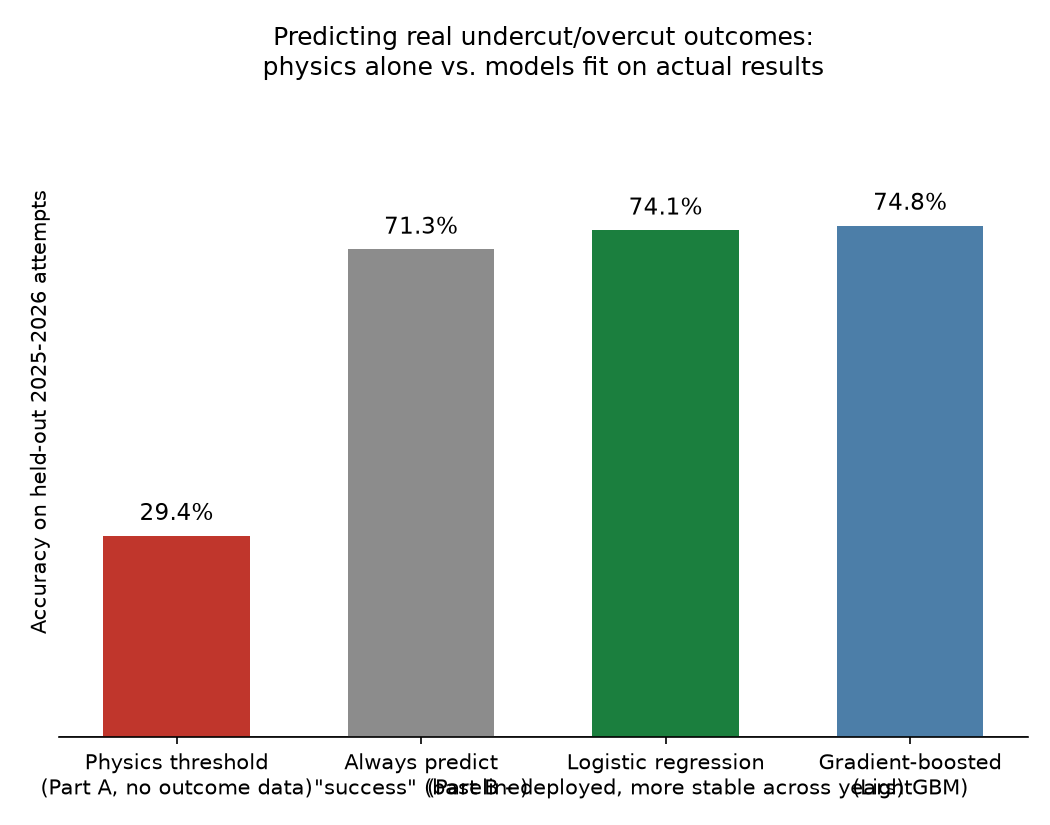
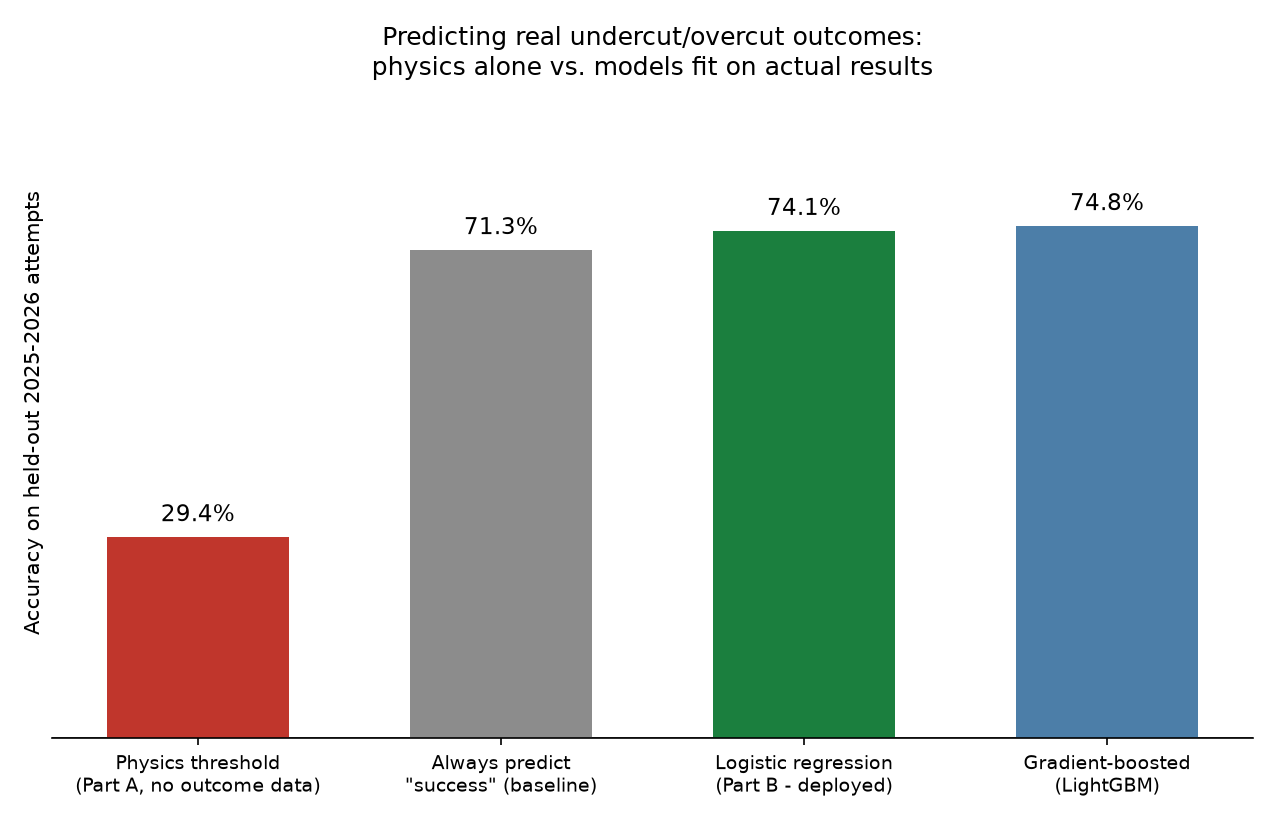
Fix overlapping x-axis labels in the Stage 2 comparison chart
The logistic regression bar's second label line ("Part B - deployed,
more stable across years") was long enough to overflow into the
neighboring bars' labels. Shortened it to match the brevity of the
other labels, widened the figure, and reduced tick label font size -
same fix already applied to the Stage 5 comparison chart. Regenerated
and copied into docs/charts/ for the deployed Pages site too.

diff --git a/scripts/07_stage2_comparison_chart.py b/scripts/07_stage2_comparison_chart.py
@@ -26,13 +26,13 @@ from src.paths import CHARTS_DIR
 RESULTS = [
     ("Physics threshold\n(Part A, no outcome data)", 0.294, "#C0362C"),
     ("Always predict\n\"success\" (baseline)", 0.713, "#8C8C8C"),
-    ("Logistic regression\n(Part B - deployed, more stable across years)", 0.741, "#1B7F3E"),
+    ("Logistic regression\n(Part B - deployed)", 0.741, "#1B7F3E"),
     ("Gradient-boosted\n(LightGBM)", 0.748, "#4C7EA8"),
 ]
 
 
 def main():
-    fig, ax = plt.subplots(figsize=(7, 5.5))
+    fig, ax = plt.subplots(figsize=(8.5, 5.5))
     labels = [r[0] for r in RESULTS]
     values = [r[1] for r in RESULTS]
     colors = [r[2] for r in RESULTS]
@@ -48,7 +48,7 @@ def main():
     ax.spines["top"].set_visible(False)
     ax.spines["right"].set_visible(False)
     ax.spines["left"].set_visible(False)
-    ax.tick_params(left=False)
+    ax.tick_params(left=False, labelsize=9)
     ax.set_yticks([])
     ax.grid(False)
     ax.axhline(0, color="#333333", linewidth=0.8, zorder=1)
